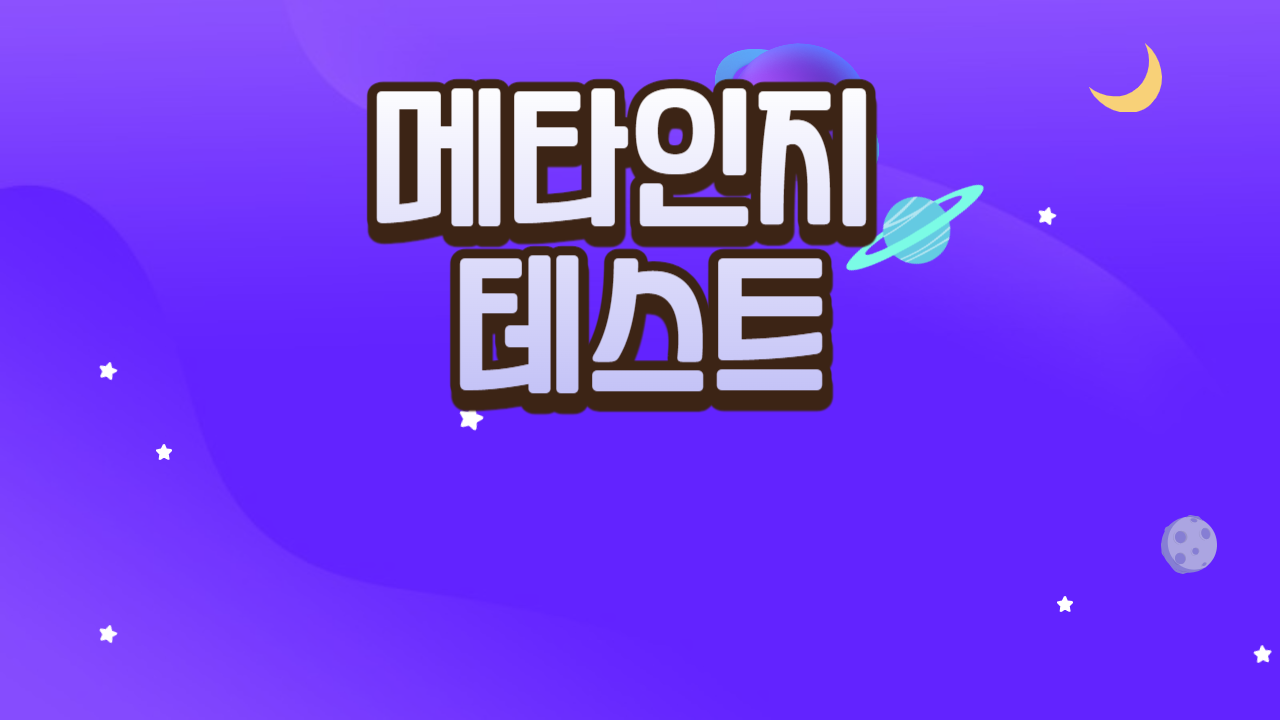
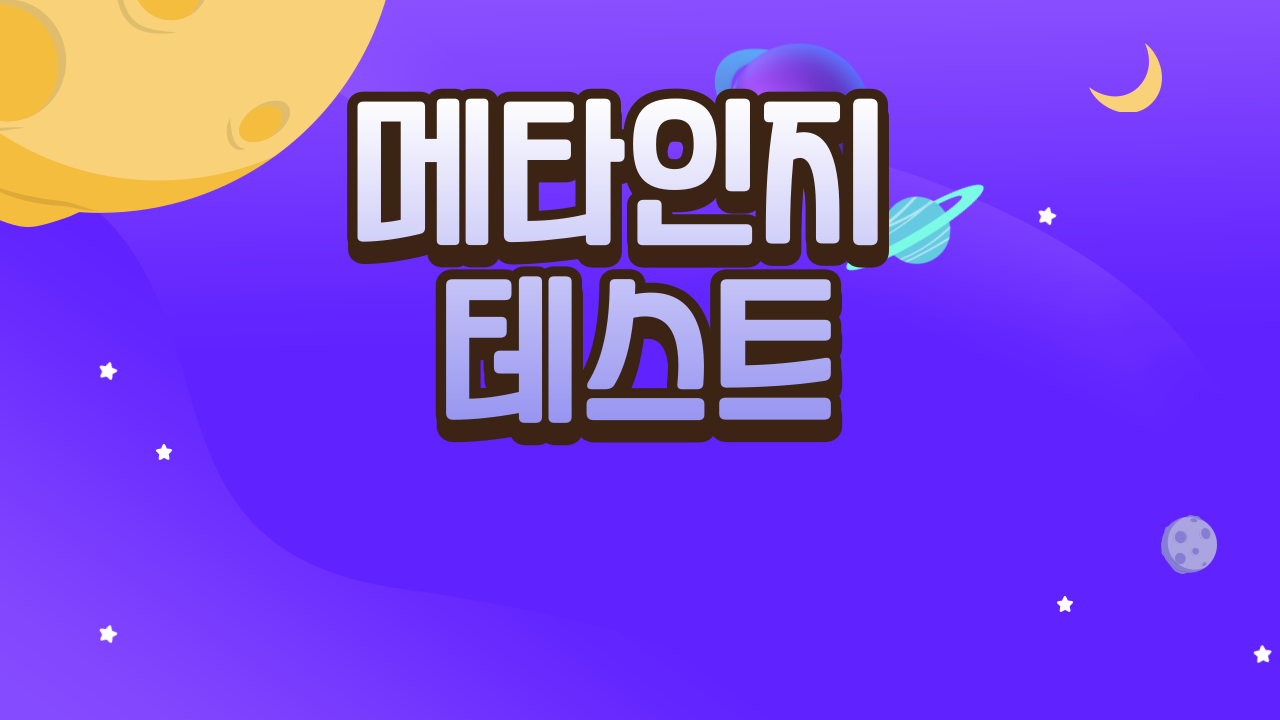
테스트 방법 페이지 추가, ui 수정

Changed region(s): [[0.0, 0.0, 0.7188, 0.6417]]

diff --git a/src/ShowWord.py b/src/ShowWord.py
@@ -1,5 +1,6 @@
 import tkinter as tk
 import random
+from BaseImage import BaseImage
 
 # 단어 리스트 100개 일상에서 접하는 단어?
 words_list = [
@@ -21,12 +22,13 @@ words_list = [
 # 단어 리스트에서 20개의 단어를 무작위로 선택
 random_words = random.sample(words_list, 20)
 
-class ShowWord(tk.Frame):
+class ShowWord(BaseImage):
     def __init__(self, parent, controller):
         super().__init__(parent)
-        self.controller = controller
+        self.controller = controller  # 컨트롤러는 주 창(App 클래스)
+        self.set_background("src/assets/main_background.png")
 
-        self.word_label = tk.Label(self, text="20개의 단어를 하나씩 보여드리겠습니다.\n⏰한 단어당 2초\n\n화면에 출력되는 단어를 기억하자!", font=("나눔고딕", 48))
+        self.word_label = tk.Label(self, text="20개의 단어를 하나씩 보여드리겠습니다.\n⏰한 단어당 2초\n\n화면에 출력되는 단어를 기억하자!", font=("나눔고딕", 48),bg="white")
         self.word_label.pack(expand=True) # 단어 글자수가 달라서 상대적 위치를 지정해주는 pack 사용
 
         self.button_start= tk.Button(self,text="START",font=("나눔고딕", 30),command=self.show_word)
@@ -37,7 +39,7 @@ class ShowWord(tk.Frame):
     def show_word(self):
         self.button_start.pack_forget()  # 시작 버튼 숨기기
         if self.index < 20:
-            self.word_label.config(text=random_words[self.index])
+            self.word_label.config(text=random_words[self.index], bg="white")
             self.index += 1
             self.after(100, self.show_word) #빠르게 TEST
             #self.window.after(2000, self.show_word)  # 2초 후에 show_word 함수를 다시 호출

diff --git a/src/HowToPage.py b/src/HowToPage.py
@@ -2,20 +2,13 @@ import tkinter as tk
 from tkinter import PhotoImage
 from PIL import Image, ImageTk
 from StartPage import StartPage
+from BaseImage import BaseImage
 
-class HowToPage(tk.Frame):  # tk.Frame을 상속하여 페이지 생성
+class HowToPage(BaseImage):  # tk.Frame을 상속하여 페이지 생성
     def __init__(self, parent, controller):
         super().__init__(parent)
-
         self.controller = controller  # 컨트롤러는 주 창(App 클래스)
-
-        image = Image.open("src/assets/start.png")
-        image = image.resize((self.winfo_screenwidth(), self.winfo_screenheight()))
-        photo = ImageTk.PhotoImage(image)
-
-        self.background_label = tk.Label(self, image=photo)
-        self.background_label.image = photo  # PhotoImage가 가비지 컬렉션에 의해 제거되지 않도록 유지
-        self.background_label.place(relwidth=1, relheight=1)  # 프레임 전체에 이미지 채우기
+        self.set_background("src/assets/how_to_test.png")
 
         self.grid_rowconfigure(0, weight=1)
         self.grid_rowconfigure(1, weight=1)
